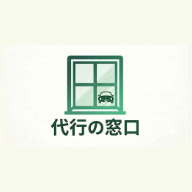
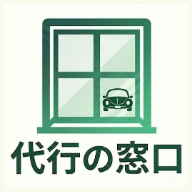
アイコンを余白いっぱいに拡大＋ヘッダーアイコンを前回相当に拡大
- 画像の中身(窓+ビートル+文字)を自動検出し、正方形いっぱいにトリミング
- PWA/ヘッダー/ヒーロー/ファビコン全アイコンを再生成
- ヘッダーの左上アイコンを 36px→42px(角丸)に拡大

Claude-Session: https://claude.ai/code/session_01VVuqWRyhNDK7Zx8P4Ac34D

diff --git a/daiko/static/css/app.css b/daiko/static/css/app.css
@@ -50,7 +50,7 @@ a { color: var(--green-dark); }
   color: var(--green-dark);
 }
 .appbar .brand { display: flex; align-items: center; gap: 11px; font-weight: 900; letter-spacing: -.04em; color: var(--green-dark); text-decoration: none; font-size: 21px; }
-.appbar .brand img { width: 36px; height: 36px; }
+.appbar .brand img { width: 42px; height: 42px; border-radius: 9px; }
 .appbar .spacer { flex: 1; }
 .appbar a.iconbtn { color: var(--green-d); text-decoration: none; font-size: 13px; font-weight: 700; position: relative; }
 .appbar a.iconbtn:hover { color: var(--green-dark); }
